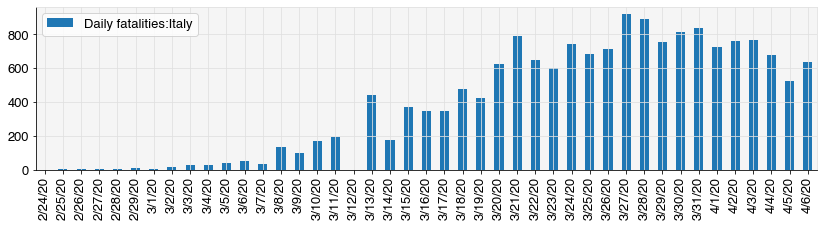
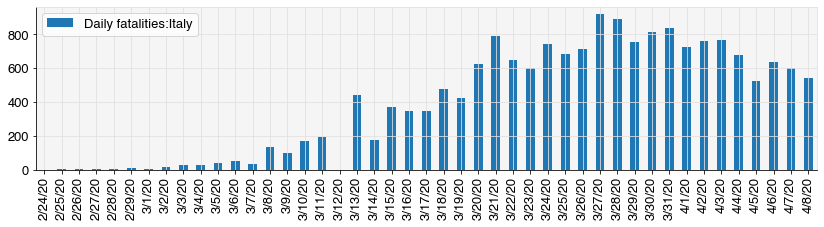
weekly crontab backup

Changed region(s): [[0.0607, 0.0617, 1.0, 0.9868]]

diff --git a/02 - Daily_Report_Italy.md b/02 - Daily_Report_Italy.md
@@ -20,12 +20,12 @@ from ne_epidemic.utilities import sir_prediction_from_country
 sir_prediction_from_country('Italy')
 ```
 
-    Today's date: 2020-04-07 
+    Today's date: 2020-04-09 
     
     Country:  Italy
     - Fatalities database:  https://raw.githubusercontent.com/CSSEGISandData/COVID-19/master/csse_covid_19_data/csse_covid_19_time_series/time_series_covid19_deaths_global.csv
     - First day with more than 5 casualties (m/d/y):  2 / 24 / 2020
-    - Days since first fatalities:  43
+    - Days since first fatalities:  45
 
 
 
@@ -36,32 +36,33 @@ sir_prediction_from_country('Italy')
 ![png](02%20-%20Daily_Report_Italy_files/02%20-%20Daily_Report_Italy_1_2.png)
 
 
-    - Last day with data: 4/6/20
-    - Italy fatalities to date: 16523
+    - Last day with data: 4/8/20
+    - Italy fatalities to date: 17669
      
     
     Model Initial parameters:
     - Initial simulation day is March:  2020-02-24
-    - Infection to death latency (days):  11
+    - Infection to death latency (days):  7
     
     Intervention list:
     day since start simulation: 13  => beta reduction factor: 0.65
     day since start simulation: 16  => beta reduction factor: 0.65
+    day since start simulation: 27  => beta reduction factor: 0.42
     
     Fitting parameters N0 and beta
-    Initial loss: 251598
+    Initial loss: 235741
     Optimization terminated successfully.
-             Current function value: 899.185863
-             Iterations: 79
-             Function evaluations: 153
+             Current function value: 528.973196
+             Iterations: 91
+             Function evaluations: 174
     Estimated parameters:
-    N0: 26622
-    beta0 (contacts per day): 0.38
-    R0: 1.91
+    N0: 12785
+    beta0 (contacts per day): 0.43
+    R0: 2.15
     
-    Final loss: 899
-    Initial/Final % loss: 0.36
-    Normalized Loss (per million persons, per day) 0.346 
+    Final loss: 528
+    Initial/Final % loss: 0.22
+    Normalized Loss (per million persons, per day) 0.194 
     
     
     _____________________________________________________________________
@@ -70,33 +71,34 @@ sir_prediction_from_country('Italy')
     
     Model name: optimized 2 pars
     
-    Simulated days: 64.0
-    Initially infected/Total population (N0/N): 26622/60480000 (44.0 per 100,000)
+    Simulated days: 66.0
+    Initially infected/Total population (N0/N): 12785/60480000 (21.1 per 100,000)
     beta (per day): 0.4 , nu (per day): 0.2
-    1/beta (days): 2.6 , 1/nu (days): 5.0
+    1/beta (days): 2.3 , 1/nu (days): 5.0
     IFR: 0.0016666666666666668
-    Initial Doubling time: 3.8  days, Initial R0: 1.9
+    Initial Doubling time: 3.0  days, Initial R0: 2.2
     Interventions:
-      1/beta at day 13.0  = 4.0  days, R0 = 1.24
-      1/beta at day 16.0  = 4.0  days, R0 = 1.24
-    Latency for intervention effect on fatalities (days): 11
+      1/beta at day 13.0  = 3.6  days, R0 = 1.4
+      1/beta at day 16.0  = 3.6  days, R0 = 1.4
+      1/beta at day 27.0  = 5.5  days, R0 = 0.91
+    Latency for intervention effect on fatalities (days): 7
     Infected_to_Detected_ratio: 6
     
     
     _____________________________________________________________________
     
-    MODEL'S OUTPUTS FOR TODAY: 2020-04-07
-       Infected: 2405945 (4.0%)
-       Recovered: 10669114 (17.6%)
-       Exposed to date: 13075059 (21.6%)
-       In ICU: 3007
-       Fatalities: 17781
+    MODEL'S OUTPUTS FOR TODAY: 2020-04-09
+       Infected: 1509560 (2.5%)
+       Recovered: 10932361 (18.1%)
+       Exposed to date: 12441921 (20.6%)
+       In ICU: 1886
+       Fatalities: 18220
      
-    MEDIUM TERM FORECAST (64 days from model start date): 
-       Percent of population exposed at end simulation: 34%
-       Peak ICU admissions:  3026  on day 2020-04-04
+    MEDIUM TERM FORECAST (66 days from model start date): 
+       Percent of population exposed at end simulation: 24%
+       Peak ICU admissions:  3317  on day 2020-03-29
        (note model does not account for long ICU stays)
-       Total fatalities at end of simulation: 31976
+       Total fatalities at end of simulation: 24278
 
 
 
@@ -122,13 +124,8 @@ sir_prediction_from_country('Italy')
           The derivative of the quadratic is used to estimate doubling time and R(t).
     Rt estimated from doubling time using nu= 0.2
     
-    Run finished 2020-04-07 06:53:51.674822
+    Run finished 2020-04-09 14:41:19.282764
 
-
-
-```python
-
-```
 
 
 ```python

diff --git a/01 - Daily_Report_Spain.md b/01 - Daily_Report_Spain.md
@@ -124,5 +124,5 @@ sir_prediction_from_country('Spain')
           The derivative of the quadratic is used to estimate doubling time and R(t).
     Rt estimated from doubling time using nu= 0.2
     
-    Run finished 2020-04-09 14:38:10.290753
+    Run finished 2020-04-09 14:41:02.123987
 

diff --git a/03 - Daily_Report_US.md b/03 - Daily_Report_US.md
@@ -122,5 +122,5 @@ sir_prediction_from_country('US')
           The derivative of the quadratic is used to estimate doubling time and R(t).
     Rt estimated from doubling time using nu= 0.2
     
-    Run finished 2020-04-09 14:38:33.839428
+    Run finished 2020-04-09 14:41:41.132412
 
